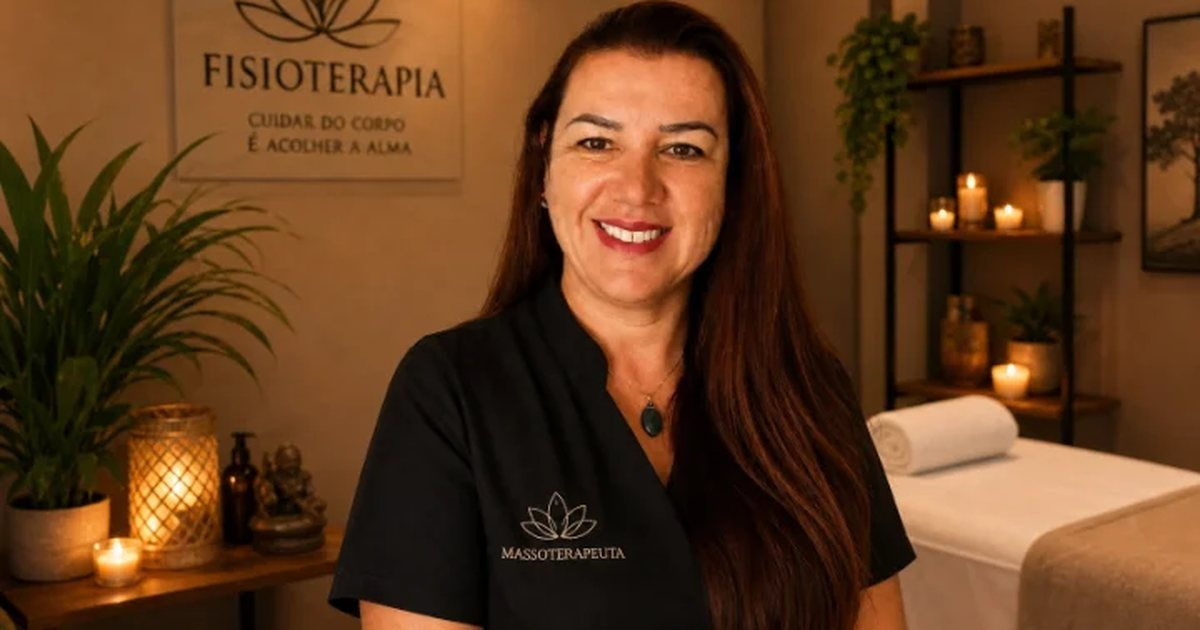
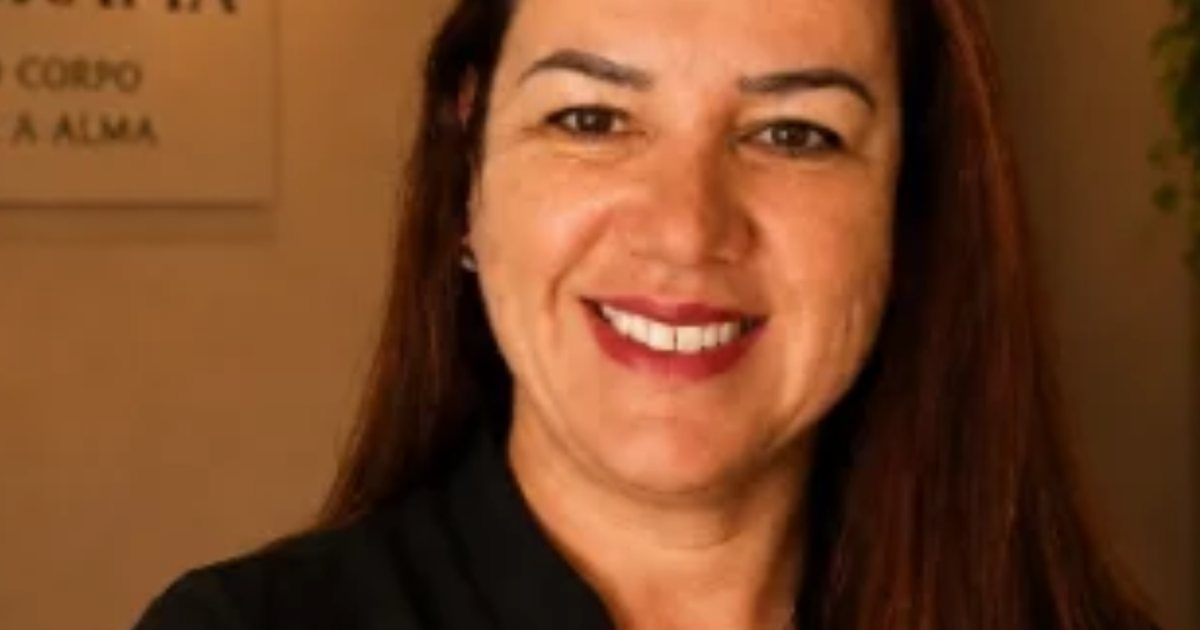
Aplica as 11 fotos reais nas seções do site
Substitui os placeholders gráficos pelas imagens enviadas, seguindo o
mapeamento do LEIA-ME.txt (hero, sobre e os 9 cards de serviço).

- Convertidas para WebP no tamanho de exibição em 2x: ~376 KB no total
  contra ~10 MB dos PNGs originais
- `loading="lazy"`, `decoding="async"` e width/height em todas as fotos
  abaixo da dobra, para não haver salto de layout
- og:image 1200x630 regerada a partir do novo retrato do hero
- Remove o CSS dos placeholders, que ficou sem uso

Card "Pré e Pós-operatório": o arquivo vinha com uma tarja verde-petróleo
"EM AÇÃO! PRÉ E PÓS OPERATÓRIO?" impressa no topo — arte de post, fora da
paleta e repetindo o título do card. A tarja foi recortada e a foto
reenquadrada na mesma proporção dos outros cards.

Claude-Session: https://claude.ai/code/session_01UPWk832kHahmSKBGtBAZXd

diff --git a/index.html b/index.html
@@ -68,7 +68,7 @@
         <div class="hero__frame" aria-hidden="true"></div>
         <picture class="hero__photo">
           <source srcset="/assets/patricia-reinhardt.webp" type="image/webp" />
-          <img src="/assets/patricia-reinhardt.jpg" width="720" height="405" alt="Patrícia Reinhardt, massoterapeuta, em seu espaço de atendimento em Canela/RS" fetchpriority="high" />
+          <img src="/assets/patricia-reinhardt.jpg" width="720" height="950" alt="Patrícia Reinhardt, massoterapeuta, em seu espaço de atendimento em Canela/RS" fetchpriority="high" />
         </picture>
       </div>
     </div>
@@ -100,8 +100,11 @@
     <div class="about__glow" aria-hidden="true"></div>
     <div class="about__grid">
       <div class="about__media" data-reveal>
-        <!-- Foto do espaço / atendimento: assets/sobre-espaco.jpg (ver README) -->
-        <div class="about__photo ph ph--sobre" aria-hidden="true"></div>
+        <div class="about__photo">
+          <img src="/assets/sobre-espaco.webp" width="840" height="1050"
+               alt="Patrícia Reinhardt no espaço de atendimento em Canela/RS"
+               loading="lazy" decoding="async" />
+        </div>
       </div>
       <div class="about__copy" data-reveal>
         <span class="eyebrow">Sobre</span>
@@ -125,8 +128,10 @@
       <div class="services__grid">
 
         <article class="card card--terapeutica" data-reveal data-tilt>
-          <!-- Foto: assets/servicos/massagem-terapeutica.jpg -->
-          <div class="card__media ph" aria-hidden="true"></div>
+          <div class="card__media">
+            <img src="/assets/servicos/massagem-terapeutica.webp" width="700" height="824"
+                 alt="Massagem terapêutica: mãos trabalhando as costas em ambiente com velas e óleos" loading="lazy" decoding="async" />
+          </div>
           <div class="card__scrim" aria-hidden="true"></div>
           <div class="card__body">
             <h3 class="card__title">Massagem Terapêutica</h3>
@@ -136,8 +141,10 @@
         </article>
 
         <article class="card card--miofascial" data-reveal data-tilt>
-          <!-- Foto: assets/servicos/liberacao-miofascial.jpg -->
-          <div class="card__media ph" aria-hidden="true"></div>
+          <div class="card__media">
+            <img src="/assets/servicos/liberacao-miofascial.webp" width="700" height="824"
+                 alt="Liberação miofascial: mãos apoiando a cabeça e o pescoço durante a sessão" loading="lazy" decoding="async" />
+          </div>
           <div class="card__scrim" aria-hidden="true"></div>
           <div class="card__body">
             <h3 class="card__title">Liberação Miofascial</h3>
@@ -147,8 +154,10 @@
         </article>
 
         <article class="card card--drenagem" data-reveal data-tilt>
-          <!-- Foto: assets/servicos/drenagem-linfatica.jpg -->
-          <div class="card__media ph" aria-hidden="true"></div>
+          <div class="card__media">
+            <img src="/assets/servicos/drenagem-linfatica.webp" width="700" height="824"
+                 alt="Drenagem linfática: movimentos suaves no abdômen com toalhas brancas" loading="lazy" decoding="async" />
+          </div>
           <div class="card__scrim" aria-hidden="true"></div>
           <div class="card__body">
             <h3 class="card__title">Drenagem Linfática</h3>
@@ -158,8 +167,10 @@
         </article>
 
         <article class="card card--relaxante" data-reveal data-tilt>
-          <!-- Foto: assets/servicos/massagem-relaxante.jpg -->
-          <div class="card__media ph" aria-hidden="true"></div>
+          <div class="card__media">
+            <img src="/assets/servicos/massagem-relaxante.webp" width="700" height="824"
+                 alt="Massagem relaxante: mãos deslizando pelas costas em sala aquecida" loading="lazy" decoding="async" />
+          </div>
           <div class="card__scrim" aria-hidden="true"></div>
           <div class="card__body">
             <h3 class="card__title">Massagem Relaxante</h3>
@@ -169,8 +180,10 @@
         </article>
 
         <article class="card card--pedras" data-reveal data-tilt>
-          <!-- Foto: assets/servicos/pedras-quentes.jpg -->
-          <div class="card__media ph" aria-hidden="true"></div>
+          <div class="card__media">
+            <img src="/assets/servicos/pedras-quentes.webp" width="700" height="824"
+                 alt="Massagem com pedras quentes sobre as costas, à luz de velas" loading="lazy" decoding="async" />
+          </div>
           <div class="card__scrim" aria-hidden="true"></div>
           <div class="card__body">
             <h3 class="card__title">Pedras Quentes</h3>
@@ -180,8 +193,10 @@
         </article>
 
         <article class="card card--esfoliacao" data-reveal data-tilt>
-          <!-- Foto: assets/servicos/esfoliacao-corporal.jpg -->
-          <div class="card__media ph" aria-hidden="true"></div>
+          <div class="card__media">
+            <img src="/assets/servicos/esfoliacao-corporal.webp" width="700" height="824"
+                 alt="Esfoliação corporal com esfoliante de açúcar aplicado no braço" loading="lazy" decoding="async" />
+          </div>
           <div class="card__scrim" aria-hidden="true"></div>
           <div class="card__body">
             <h3 class="card__title">Esfoliação Corporal</h3>
@@ -191,8 +206,10 @@
         </article>
 
         <article class="card card--reflexologia" data-reveal data-tilt>
-          <!-- Foto: assets/servicos/reflexologia.jpg -->
-          <div class="card__media ph" aria-hidden="true"></div>
+          <div class="card__media">
+            <img src="/assets/servicos/reflexologia.webp" width="700" height="824"
+                 alt="Reflexologia: pressão nos pontos da sola dos pés, com velas ao fundo" loading="lazy" decoding="async" />
+          </div>
           <div class="card__scrim" aria-hidden="true"></div>
           <div class="card__body">
             <h3 class="card__title">Reflexologia</h3>
@@ -202,8 +219,10 @@
         </article>
 
         <article class="card card--operatorio" data-reveal data-tilt>
-          <!-- Foto: assets/servicos/pre-pos-operatorio.jpg -->
-          <div class="card__media ph" aria-hidden="true"></div>
+          <div class="card__media">
+            <img src="/assets/servicos/pre-pos-operatorio.webp" width="700" height="824"
+                 alt="Massagem pré e pós-operatório: toque leve e preciso na região do ombro" loading="lazy" decoding="async" />
+          </div>
           <div class="card__scrim" aria-hidden="true"></div>
           <div class="card__body">
             <h3 class="card__title">Pré e Pós-operatório</h3>
@@ -213,8 +232,10 @@
         </article>
 
         <article class="card card--wide card--gravidez" data-reveal data-tilt>
-          <!-- Foto: assets/servicos/massagem-gravidez.jpg -->
-          <div class="card__media ph" aria-hidden="true"></div>
+          <div class="card__media">
+            <img src="/assets/servicos/massagem-gravidez.webp" width="700" height="824"
+                 alt="Massagem na gravidez: gestante sentada recebendo apoio nas costas" loading="lazy" decoding="async" />
+          </div>
           <div class="card__scrim" aria-hidden="true"></div>
           <div class="card__body">
             <h3 class="card__title">Massagem na Gravidez</h3>

diff --git a/styles.css b/styles.css
@@ -595,58 +595,6 @@ a { color: var(--wine); text-decoration: none; }
   line-height: 1.6;
 }
 
-/* ---------------------------------------------------------------------
-   Placeholders de imagem (.ph)
-   Cada bloco fica com uma textura própria na paleta do site enquanto as
-   fotos reais não chegam. Para trocar por foto: substitua a <div class="ph">
-   por <img src="assets/servicos/NOME.jpg" alt="..." loading="lazy"> — o
-   .card__media já faz object-fit: cover. Ver README.md.
-   --------------------------------------------------------------------- */
-
-/* Não declare `position` aqui: `.ph` é aplicado junto de `.card__media`
-   (absolute) e de `.about__photo`, e venceria por ordem de cascata. Cada host
-   já estabelece o próprio bloco de contenção para o `::after`. */
-.ph {
-  background-color: #3A312B;
-  background-image:
-    radial-gradient(75% 62% at 24% 18%, var(--ph-a, rgba(176, 86, 120, .7)) 0%, rgba(0, 0, 0, 0) 68%),
-    radial-gradient(72% 66% at 80% 84%, var(--ph-b, rgba(122, 132, 99, .6)) 0%, rgba(0, 0, 0, 0) 66%),
-    radial-gradient(130% 85% at 50% -10%, rgba(246, 241, 232, .18) 0%, rgba(0, 0, 0, 0) 58%),
-    linear-gradient(155deg, #6A5A50 0%, #3B322C 50%, #221D18 100%);
-}
-.ph::after {
-  content: "";
-  position: absolute;
-  inset: 0;
-  background-image: repeating-linear-gradient(
-    118deg,
-    rgba(246, 241, 232, .06) 0px,
-    rgba(246, 241, 232, .06) 1px,
-    rgba(0, 0, 0, 0) 1px,
-    rgba(0, 0, 0, 0) 13px);
-  opacity: .8;
-}
-
-.card--terapeutica  .ph { --ph-a: rgba(176, 86, 120, .72); --ph-b: rgba(122, 132, 99, .55); }
-.card--miofascial   .ph { --ph-a: rgba(122, 132, 99, .72); --ph-b: rgba(176, 86, 120, .48); }
-.card--drenagem     .ph { --ph-a: rgba(150, 178, 176, .62); --ph-b: rgba(214, 170, 86, .42); }
-.card--relaxante    .ph { --ph-a: rgba(214, 150, 178, .62); --ph-b: rgba(96, 106, 80, .6); }
-.card--pedras       .ph { --ph-a: rgba(224, 166, 72, .66);  --ph-b: rgba(150, 66, 98, .6); }
-.card--esfoliacao   .ph { --ph-a: rgba(232, 217, 195, .58); --ph-b: rgba(176, 86, 120, .5); }
-.card--reflexologia .ph { --ph-a: rgba(112, 128, 92, .72);  --ph-b: rgba(214, 170, 86, .46); }
-.card--operatorio   .ph { --ph-a: rgba(158, 78, 112, .66);  --ph-b: rgba(150, 178, 176, .46); }
-.card--gravidez     .ph { --ph-a: rgba(214, 150, 178, .64); --ph-b: rgba(232, 186, 108, .44); }
-
-/* A seção "Sobre" fica sobre o creme e não tem scrim: placeholder claro. */
-.ph--sobre {
-  background-color: #C8B9A6;
-  background-image:
-    radial-gradient(75% 62% at 26% 20%, rgba(176, 86, 120, .5) 0%, rgba(0, 0, 0, 0) 68%),
-    radial-gradient(72% 66% at 78% 84%, rgba(122, 132, 99, .55) 0%, rgba(0, 0, 0, 0) 66%),
-    linear-gradient(155deg, #E7DCCB 0%, #BCA994 55%, #8C7B6A 100%);
-}
-.ph--sobre::after { opacity: .35; }
-
 /* -------------------------- como funciona -------------------------- */
 
 .steps {

diff --git a/README.md b/README.md
@@ -35,39 +35,36 @@ python3 -m http.server 8000
 Import do repositório → **Framework: Other**, Build Command e Output Directory
 vazios, **Root Directory: `.`** (os arquivos estão na raiz, não em subpasta).
 
-## Fotos pendentes
+## Imagens
 
-O hero usa a foto real da Patrícia. Os **9 cards de serviço** e a **foto da
-seção "Sobre"** ainda estão com um placeholder gráfico na paleta do site
-(gradientes quentes, sem ícone nem emoji) — as fotos originais do arquivo de
-design não puderam ser recuperadas em resolução utilizável.
+Todas as imagens estão aplicadas. Foram convertidas para WebP no tamanho de
+exibição (2x), somando **~376 KB** no total.
 
-Para colocar a foto real, salve o arquivo em `assets/servicos/` com o nome
-abaixo e troque a `<div class="card__media ph">` do card correspondente por:
-
-```html
-<div class="card__media">
-  <img src="/assets/servicos/massagem-terapeutica.jpg"
-       alt="Massagem terapêutica" loading="lazy">
-</div>
-```
-
-O `object-fit: cover` já está no CSS — a foto se ajusta sozinha ao card.
-
-| Card / seção          | Arquivo esperado                            |
+| Seção / card          | Arquivo                                     |
 | --------------------- | ------------------------------------------- |
-| Massagem Terapêutica  | `assets/servicos/massagem-terapeutica.jpg`  |
-| Liberação Miofascial  | `assets/servicos/liberacao-miofascial.jpg`  |
-| Drenagem Linfática    | `assets/servicos/drenagem-linfatica.jpg`    |
-| Massagem Relaxante    | `assets/servicos/massagem-relaxante.jpg`    |
-| Pedras Quentes        | `assets/servicos/pedras-quentes.jpg`        |
-| Esfoliação Corporal   | `assets/servicos/esfoliacao-corporal.jpg`   |
-| Reflexologia          | `assets/servicos/reflexologia.jpg`          |
-| Pré e Pós-operatório  | `assets/servicos/pre-pos-operatorio.jpg`    |
-| Massagem na Gravidez  | `assets/servicos/massagem-gravidez.jpg`     |
-| Seção "Sobre"         | `assets/sobre-espaco.jpg`                   |
+| Hero                  | `assets/patricia-reinhardt.webp` (+ `.jpg`) |
+| Sobre                 | `assets/sobre-espaco.webp`                  |
+| Massagem Terapêutica  | `assets/servicos/massagem-terapeutica.webp` |
+| Liberação Miofascial  | `assets/servicos/liberacao-miofascial.webp` |
+| Drenagem Linfática    | `assets/servicos/drenagem-linfatica.webp`   |
+| Massagem Relaxante    | `assets/servicos/massagem-relaxante.webp`   |
+| Pedras Quentes        | `assets/servicos/pedras-quentes.webp`       |
+| Esfoliação Corporal   | `assets/servicos/esfoliacao-corporal.webp`  |
+| Reflexologia          | `assets/servicos/reflexologia.webp`         |
+| Pré e Pós-operatório  | `assets/servicos/pre-pos-operatorio.webp`   |
+| Massagem na Gravidez  | `assets/servicos/massagem-gravidez.webp`    |
 
-Formato sugerido: JPG ou WebP, ~1200×1200 px, até ~250 KB cada.
+O `og:image` (1200x630) é gerado a partir da foto do hero.
+
+Para trocar qualquer foto depois: substitua o arquivo mantendo o nome. O
+`object-fit: cover` no CSS reenquadra sozinho, não precisa mexer no HTML.
+
+### Ajuste feito no card "Pré e Pós-operatório"
+
+O arquivo original vinha com uma tarja verde-petróleo escrita
+"EM AÇÃO! PRÉ E PÓS OPERATÓRIO?" impressa no topo — arte de post de rede
+social, fora da paleta do site e repetindo o título do card. A tarja foi
+recortada e a foto reenquadrada na mesma proporção dos outros cards.
 
 ## Depois de conectar o domínio
 
